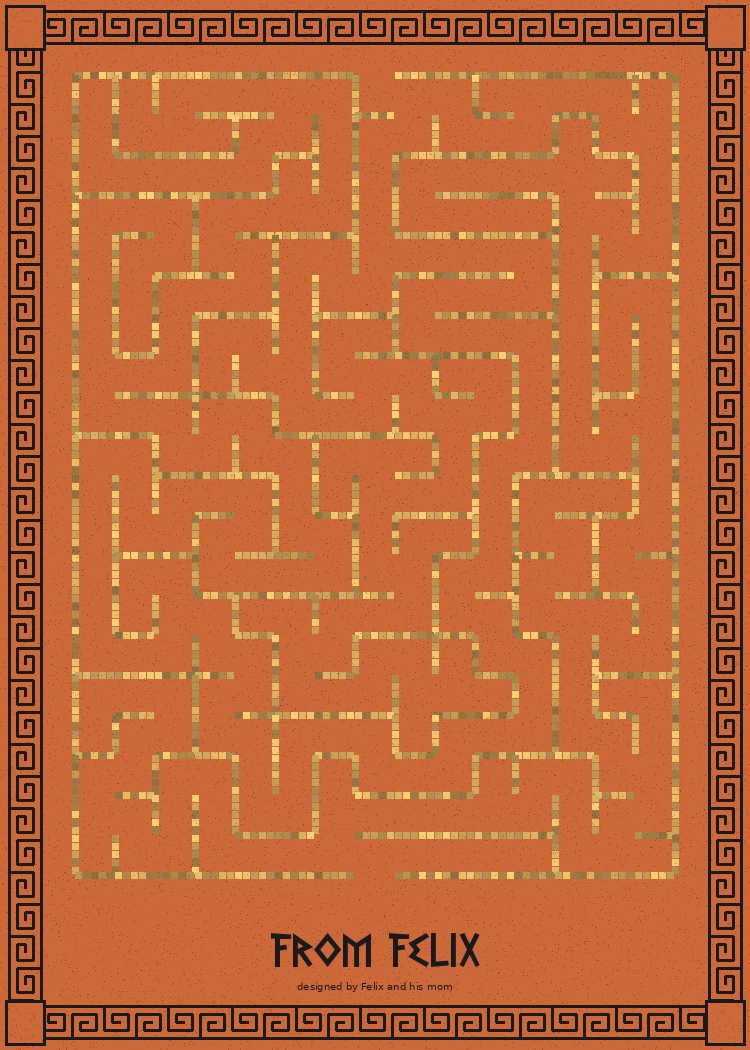
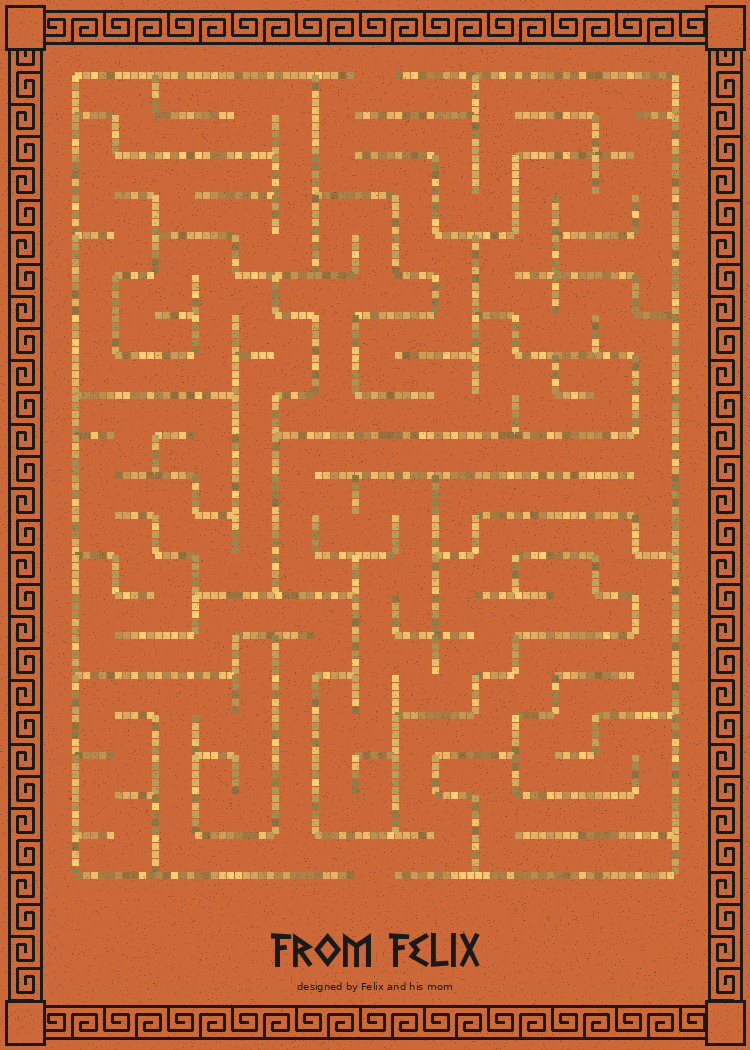
Revert maze tiles to black

Changed region(s): [[0.092, 0.061, 0.92, 0.8533]]

diff --git a/src/greek_design_system.py b/src/greek_design_system.py
@@ -473,7 +473,7 @@ def generate_greek_card_back(
 
     # Generate and draw maze
     grid = generate_maze(maze_rows, maze_cols)
-    draw_maze(draw, grid, maze_x, maze_y, cell_size, tile_size=6, gap=2, wall_color="#C4A35A")
+    draw_maze(draw, grid, maze_x, maze_y, cell_size, tile_size=6, gap=2)
 
     # Setup fonts
     base_dir = os.path.dirname(os.path.abspath(__file__))
